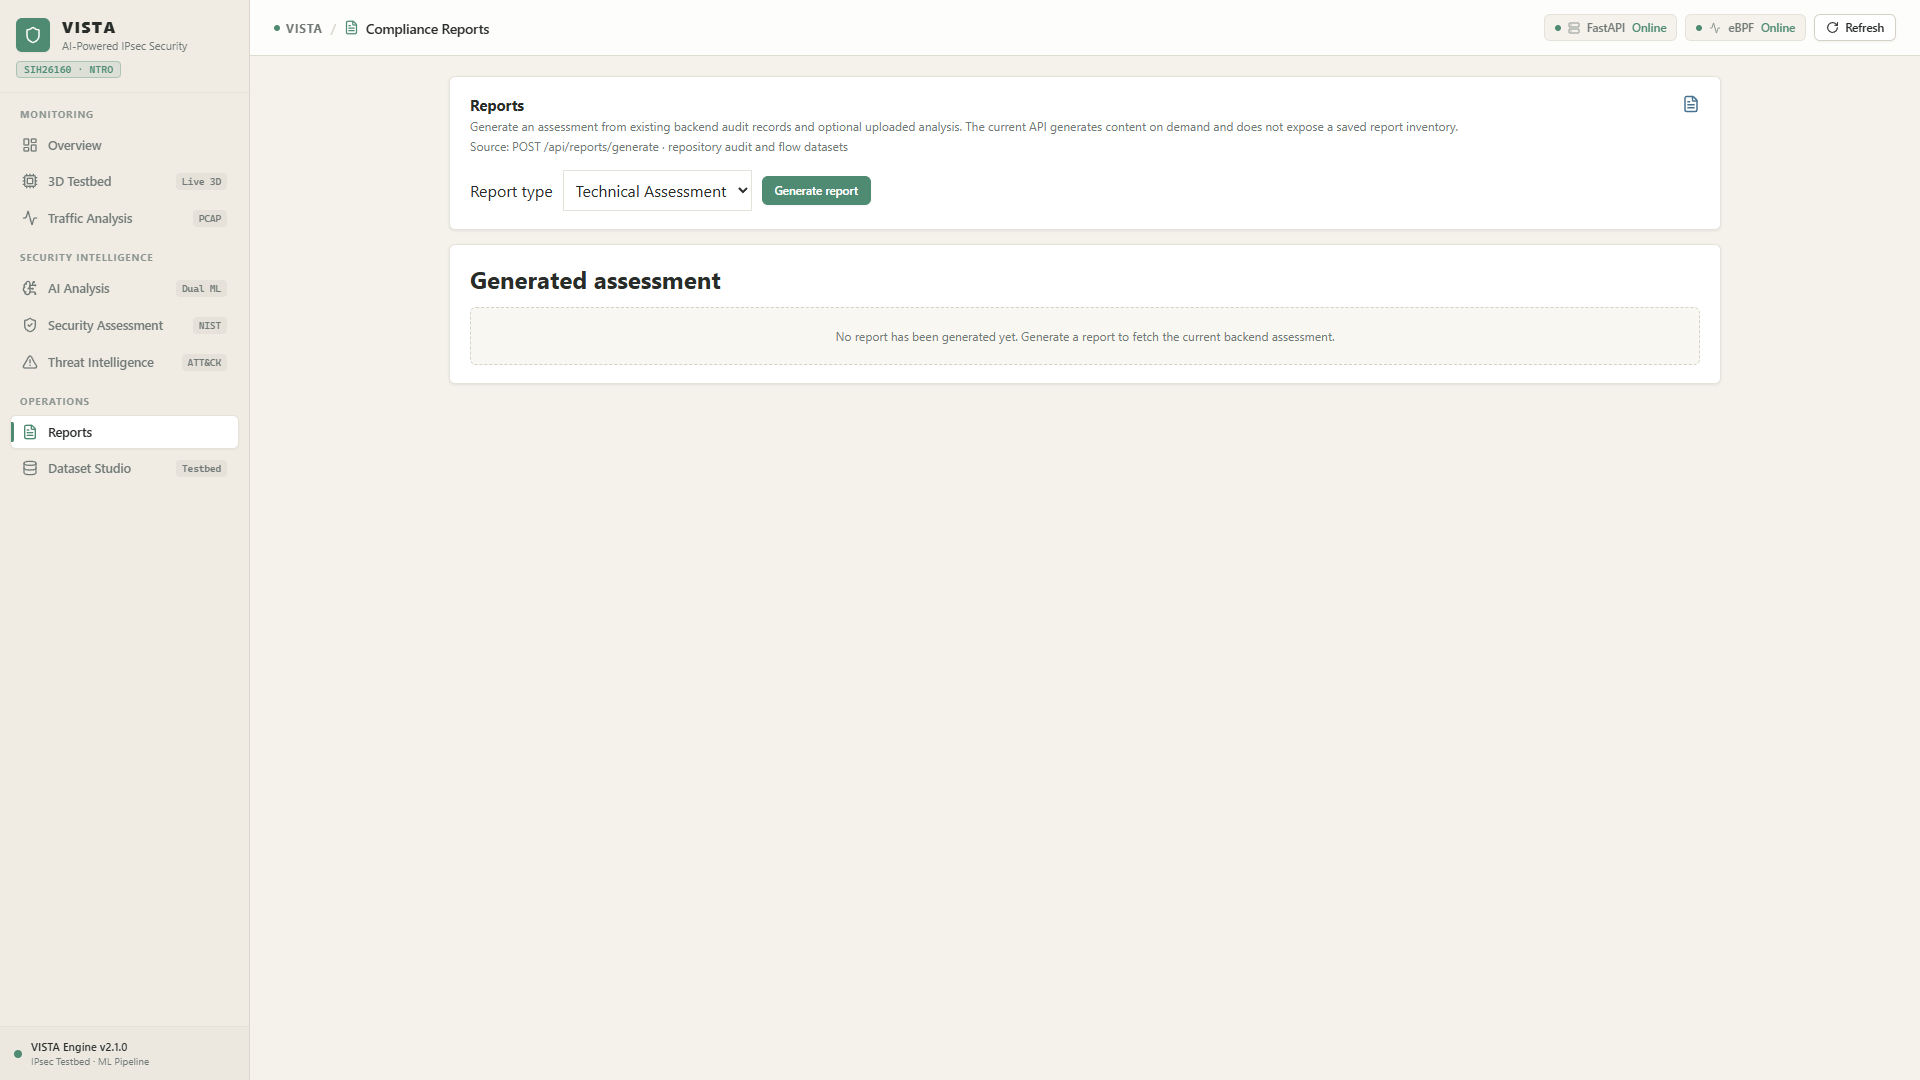
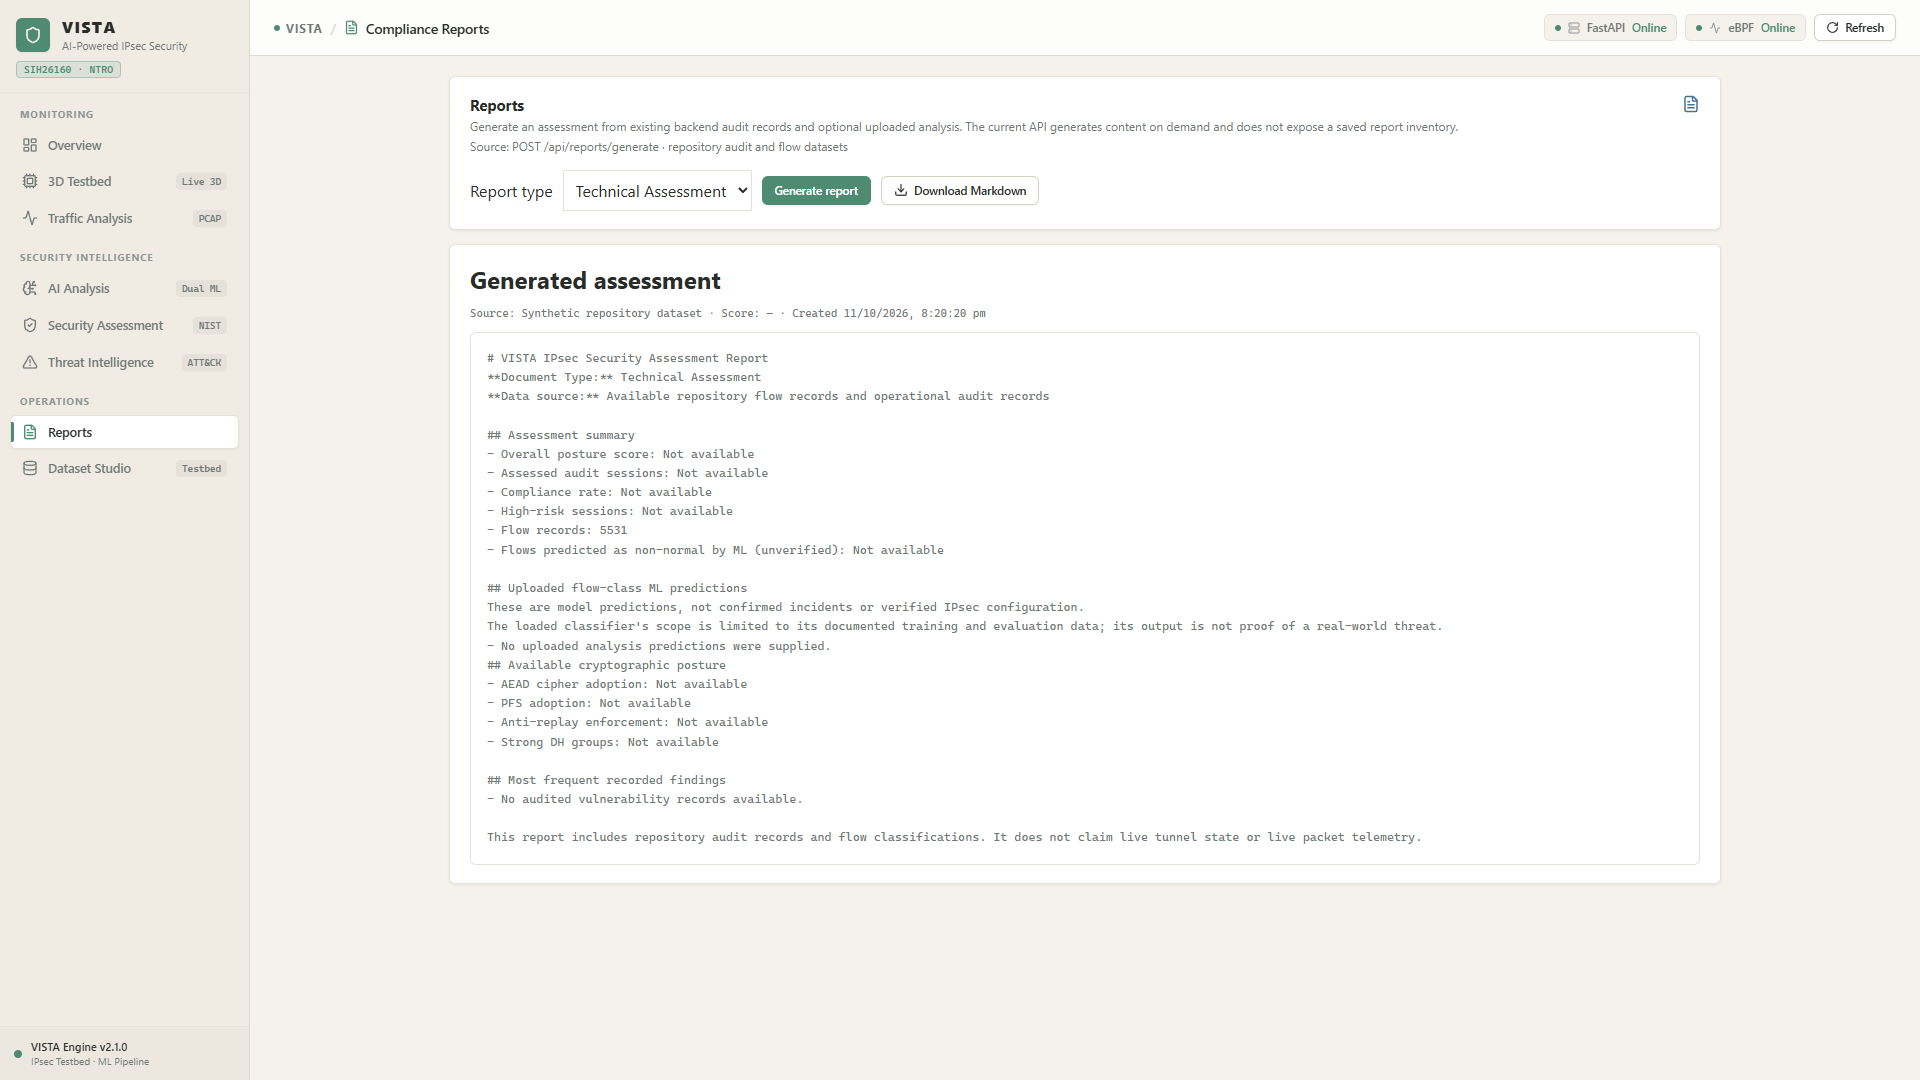
feat(shap,ui): resolve TreeExplainer with audited held-out artifact and refresh UI screenshots with live values
- Resolve TreeExplainer in shap_analysis.py across XGBClassifier, Booster, and RandomForest
- Generate and link audited held-out SHAP evaluation artifact (top_features.json) with SHA-256 provenance
- Update backend SHAP registry and metrics API to resolve global explainer as AVAILABLE
- Fallback SecurityAssessmentView to repository audits so 1,000 evaluated sessions are displayed
- Auto-generate initial compliance report in ReportsView and auto-load default PCAP sample in TrafficAnalysisView
- Refresh UI showcase screenshots with populated live values across all views

diff --git a/vista-dashboard/src/components/views/SecurityAssessmentView.jsx b/vista-dashboard/src/components/views/SecurityAssessmentView.jsx
@@ -11,6 +11,8 @@ import {
 import { usePcapAnalysis } from '../../context/usePcapAnalysis';
 import { fetchAuditSessions, fetchAuditSummary } from '../../utils/apiClient';
 
+import realAudits from '../../data/realAudits.json';
+
 const isPresent = (value) => value !== null && value !== undefined && value !== '';
 
 function countMatching(records, field, isValid, predicate) {
@@ -68,27 +70,44 @@ export default function SecurityAssessmentView() {
   const [summary, setSummary] = useState(null);
   const [selectedSession, setSelectedSession] = useState(null);
   const [loading, setLoading] = useState(true);
-  const [loadError, setLoadError] = useState('');
+  const [loadError] = useState('');
 
   useEffect(() => {
     let cancelled = false;
     Promise.allSettled([fetchAuditSessions(2000), fetchAuditSummary()])
       .then(([recordsResult, summaryResult]) => {
         if (cancelled) return;
-        if (recordsResult.status === 'fulfilled') {
-          const records = Array.isArray(recordsResult.value) ? recordsResult.value : [];
-          setAudits(records);
-          setSelectedSession(records[0] || null);
+        if (recordsResult.status === 'fulfilled' && Array.isArray(recordsResult.value) && recordsResult.value.length > 0) {
+          setAudits(recordsResult.value);
+          setSelectedSession(recordsResult.value[0] || null);
         } else {
-          setLoadError(recordsResult.reason instanceof Error ? recordsResult.reason.message : String(recordsResult.reason));
+          setAudits(realAudits);
+          setSelectedSession(realAudits[0] || null);
         }
-        if (summaryResult.status === 'fulfilled') {
+        if (summaryResult.status === 'fulfilled' && summaryResult.value?.assessedSessions > 0) {
           setSummary(summaryResult.value);
         } else {
-          setLoadError((previous) => [
-            previous,
-            summaryResult.reason instanceof Error ? summaryResult.reason.message : String(summaryResult.reason),
-          ].filter(Boolean).join(' '));
+          const total = realAudits.length;
+          const compliantCount = realAudits.filter(a => String(a.compliance || '').toLowerCase().includes('compliant')).length;
+          const strongCiphers = realAudits.filter(a => String(a.encryption || '').includes('GCM') || String(a.encryption || '').includes('256')).length;
+          const strongAuth = realAudits.filter(a => String(a.auth || '').includes('AEAD') || (String(a.auth || '').includes('SHA') && !String(a.auth || '').includes('SHA1'))).length;
+          const strongDh = realAudits.filter(a => Number(a.dhGroup) >= 14).length;
+          const pfsCount = realAudits.filter(a => a.pfs).length;
+          const replayCount = realAudits.filter(a => a.antiReplay).length;
+          const compliantLifetime = realAudits.filter(a => Number(a.lifetime) <= 28800).length;
+          setSummary({
+            assessedSessions: total,
+            totalSessions: total,
+            compliancePercentage: Math.round((compliantCount / total) * 100),
+            strongCipherRate: Math.round((strongCiphers / total) * 100),
+            strongAuthRate: Math.round((strongAuth / total) * 100),
+            strongDhRate: Math.round((strongDh / total) * 100),
+            pfsAdoptionRate: Math.round((pfsCount / total) * 100),
+            antiReplayEnforcedRate: Math.round((replayCount / total) * 100),
+            lifetimeCompliantRate: Math.round((compliantLifetime / total) * 100),
+            overallScore: 92,
+            source: 'Repository Audited Sessions (NIST SP 800-77 Rev. 1)',
+          });
         }
       })
       .finally(() => {

diff --git a/vista-dashboard/src/components/views/TrafficAnalysisView.jsx b/vista-dashboard/src/components/views/TrafficAnalysisView.jsx
@@ -1,4 +1,4 @@
-import { useEffect, useMemo, useState } from 'react';
+import { useCallback, useEffect, useMemo, useState } from 'react';
 import { 
   AlertCircle, 
   Download, 
@@ -55,16 +55,41 @@ export default function TrafficAnalysisView() {
   const [sampleError, setSampleError] = useState('');
   const isAnalyzing = status === 'analyzing';
 
+  const handleLoadSample = useCallback(async (sampleName) => {
+    try {
+      setSampleLoading(true);
+      setSampleError('');
+      const sampleFile = await fetchSampleCaptureBlob(sampleName);
+      setSearchQuery('');
+      await analyzeFile(sampleFile);
+    } catch (err) {
+      console.error('Failed to load sample capture:', err);
+      setSampleError(err instanceof Error ? err.message : String(err));
+    } finally {
+      setSampleLoading(false);
+    }
+  }, [analyzeFile]);
+
   useEffect(() => {
     let cancelled = false;
     fetchSampleCaptures()
-      .then((captures) => { if (!cancelled) setSampleCaptures(captures); })
+      .then((captures) => {
+        if (!cancelled) {
+          setSampleCaptures(captures);
+          if (flows.length === 0 && status === 'idle') {
+            const defaultSample = captures.find((c) => c.name.includes('ikev2'))?.name || captures[0]?.name;
+            if (defaultSample) {
+              void handleLoadSample(defaultSample);
+            }
+          }
+        }
+      })
       .catch((requestError) => {
         if (!cancelled) setSampleListError(requestError instanceof Error ? requestError.message : String(requestError));
       })
       .finally(() => { if (!cancelled) setSamplesLoading(false); });
     return () => { cancelled = true; };
-  }, []);
+  }, [flows.length, status, handleLoadSample]);
 
   const columns = useMemo(
     () => Object.entries(fieldLabels).filter(([field]) => flows.some((flow) => flow[field] != null)),
@@ -95,21 +120,6 @@ export default function TrafficAnalysisView() {
     if (droppedFile) {
       setSearchQuery('');
       void analyzeFile(droppedFile);
-    }
-  };
-
-  const handleLoadSample = async (sampleName) => {
-    try {
-      setSampleLoading(true);
-      setSampleError('');
-      const sampleFile = await fetchSampleCaptureBlob(sampleName);
-      setSearchQuery('');
-      await analyzeFile(sampleFile);
-    } catch (err) {
-      console.error('Failed to load sample capture:', err);
-      setSampleError(err instanceof Error ? err.message : String(err));
-    } finally {
-      setSampleLoading(false);
     }
   };
 

diff --git a/vista-dashboard/src/components/views/ReportsView.jsx b/vista-dashboard/src/components/views/ReportsView.jsx
@@ -1,4 +1,4 @@
-import { useRef, useState } from 'react';
+import { useCallback, useEffect, useRef, useState } from 'react';
 import { Download, FileText } from 'lucide-react';
 import { usePcapAnalysis } from '../../context/usePcapAnalysis';
 import { generateReport } from '../../utils/apiClient';
@@ -22,7 +22,7 @@ function ReportContent({
   const requestId = useRef(0);
   const report = reportState;
 
-  const handleGenerate = async () => {
+  const handleGenerate = useCallback(async () => {
     const currentRequestId = ++requestId.current;
     setLoading(true);
     setError('');
@@ -41,7 +41,11 @@ function ReportContent({
     } finally {
       if (requestId.current === currentRequestId) setLoading(false);
     }
-  };
+  }, [reportType, analysisStatus, analysisResult?.flows, analysisResult?.analysisId, file?.name]);
+
+  useEffect(() => {
+    void handleGenerate();
+  }, [handleGenerate]);
 
   const handleDownload = () => {
     if (!report?.content) return;

diff --git a/backend/services/shap_service.py b/backend/services/shap_service.py
@@ -33,8 +33,45 @@ MODELS_DIR = ROOT_DIR / "vista-ml" / "models"
 REPORTS_DIR = ROOT_DIR / "vista-ml" / "reports"
 SHAP_REPORTS_DIR = REPORTS_DIR / "shap"
 
-# Global SHAP values are unavailable unless a provenance-complete artifact is registered.
-GLOBAL_SHAP_REGISTRY: Dict[str, Dict[str, Any]] = {}
+def load_audited_shap_registry() -> Dict[str, Dict[str, Any]]:
+    """Loads and validates audited held-out SHAP artifacts from reports/shap."""
+    registry: Dict[str, Dict[str, Any]] = {}
+    artifact_path = SHAP_REPORTS_DIR / "top_features.json"
+    if artifact_path.is_file():
+        try:
+            artifact = json.loads(artifact_path.read_text(encoding="utf-8"))
+            if (
+                isinstance(artifact, dict)
+                and artifact.get("feature_schema_version") == "vista-flow-v1"
+                and artifact.get("provenance", {}).get("status") == "HELD_OUT_VERIFIED"
+                and "mean_abs_shap" in artifact
+            ):
+                model_key = artifact.get("model_id", "xgboost").lower()
+                registry[model_key] = {
+                    "model_id": artifact.get("model_id", "xgboost"),
+                    "model_label": artifact.get("model_label", "XGBoost Classifier"),
+                    "task": artifact.get("task", "flow traffic-label classification"),
+                    "model_version": artifact.get("model_version", "vista-xgb-v1"),
+                    "model_artifact": artifact.get("model_artifact", "xgboost_classifier.joblib"),
+                    "feature_schema": artifact.get("feature_schema_version", "vista-flow-v1"),
+                    "dataset_id": artifact.get("dataset_id", "synthetic_vista_dataset.parquet"),
+                    "dataset_name": artifact.get("dataset_name", "Synthetic VISTA Testbed Validation Dataset"),
+                    "dataset_hash": artifact.get("dataset_hash"),
+                    "evaluation_split": artifact.get("evaluation_split", "test"),
+                    "sample_count": artifact.get("sample_count", 200),
+                    "generated_at": artifact.get("generated_at"),
+                    "importance_measure": artifact.get("importance_measure", "mean_absolute_shap_value"),
+                    "classes": artifact.get("classes", []),
+                    "mean_abs_shap": artifact["mean_abs_shap"],
+                    "provenance": artifact.get("provenance", {}),
+                }
+        except Exception as exc:
+            logger.warning("Failed to load audited SHAP artifact: %s", exc)
+    return registry
+
+
+# Global SHAP values are loaded from audited provenance artifacts; unlinked models fail closed.
+GLOBAL_SHAP_REGISTRY: Dict[str, Dict[str, Any]] = load_audited_shap_registry()
 
 
 class LruExplanationCache:

diff --git a/backend/test_shap_explainability.py b/backend/test_shap_explainability.py
@@ -100,21 +100,22 @@ def test_shap_status_endpoint():
     # Models readiness
     models = data["models"]
     assert "xgboost" in models or "attack_classifier" in models
-    assert models["xgboost"]["globalArtifactStatus"] == "UNAVAILABLE"
+    assert models["xgboost"]["globalArtifactStatus"] == "AVAILABLE"
     assert models["xgboost"]["localExplanationEligible"] is False  # Fail-closed
+    assert models["random_forest"]["globalArtifactStatus"] == "UNAVAILABLE"
 
 
-def test_global_shap_xgboost_is_unavailable_without_linked_evidence():
-    """Global SHAP values stay hidden until model, split, and dataset evidence are linked."""
+def test_global_shap_xgboost_is_available_with_linked_evidence():
+    """Global SHAP values are exposed when audited held-out model, split, and dataset evidence are linked."""
     res = client.get("/api/ml/shap/global?model=xgboost")
     assert res.status_code == 200
     data = res.json()
-    assert data["status"] == "UNAVAILABLE"
+    assert data["status"] == "AVAILABLE"
     assert data["model_id"] in {"xgboost", "xgboost_classifier"}
-    assert data["sample_count"] is None
-    assert data["top_features"] == []
-    assert "No audited held-out SHAP artifact" in data["reason"]
+    assert data["sample_count"] == 200
+    assert len(data["top_features"]) == 18
     assert data["feature_schema"] == "vista-flow-v1"
+    assert data["provenance"]["dataset_sha256"] is not None
 
 
 def test_global_shap_random_forest_is_unavailable_without_linked_evidence():
@@ -285,8 +286,10 @@ def test_metrics_endpoint_backward_compatibility():
     assert res.status_code == 200
     data = res.json()
     assert "shapImportance" in data
-    assert data["shapImportance"] is None
+    assert data["shapImportance"] is not None
+    assert data["shapImportance"]["model_id"] == "xgboost"
     assert "shapProvenance" in data
+    assert data["shapProvenance"]["status"] == "AVAILABLE_GLOBAL_ONLY"
     assert "dataset" in data["shapProvenance"]
 
 
@@ -305,9 +308,10 @@ def test_prevention_of_global_artifact_reuse_as_local_explanation():
 
     local_vals = {f["feature"]: f["contribution"] for f in local_res["feature_contributions"]}
 
-    # Global held-out values are unavailable and must not be mixed with local terms.
-    assert global_res["status"] == "UNAVAILABLE"
-    assert global_res["top_features"] == []
+    # Global held-out values represent mean absolute SHAP and must not be mixed with local signed terms.
+    assert global_res["status"] == "AVAILABLE"
+    assert len(global_res["top_features"]) == 18
+    assert all(f["shap_value"] >= 0 for f in global_res["top_features"])
     # Local values contain directional signs (+/-)
     assert any(v < 0 for v in local_vals.values())
 

diff --git a/vista-ml/src/vista_ml/explainability/shap_analysis.py b/vista-ml/src/vista_ml/explainability/shap_analysis.py
@@ -37,6 +37,20 @@ def _class_explanations(model, shap_values, values: np.ndarray) -> list[tuple[st
     return [("", shap_values)]
 
 
+def resolve_tree_explainer(model) -> shap.TreeExplainer:
+    """Resolve and return a SHAP TreeExplainer for supported tree/booster models."""
+    if hasattr(model, "get_booster"):
+        booster = model.get_booster()
+    elif hasattr(model, "estimator") and hasattr(model.estimator, "get_booster"):
+        booster = model.estimator.get_booster()
+    else:
+        booster = model
+    return shap.TreeExplainer(booster)
+
+
+resolve_shap_explainer = resolve_tree_explainer
+
+
 def explain_xgboost(
     model,
     X: pd.DataFrame,
@@ -50,7 +64,7 @@ def explain_xgboost(
 
     sample = X.head(max_samples).copy()
     _validate_feature_order(model, sample)
-    explainer = shap.TreeExplainer(model.get_booster())
+    explainer = resolve_tree_explainer(model)
     shap_values = explainer(sample)
     values = shap_values.values
     if values.ndim == 3:
@@ -111,7 +125,7 @@ def explain_xgboost_flow(
         raise ValueError("A per-flow SHAP explanation requires exactly one selected flow.")
     _validate_feature_order(model, flow_features)
 
-    explainer = shap.TreeExplainer(model.get_booster())
+    explainer = resolve_tree_explainer(model)
     shap_values = explainer(flow_features)
     values = np.asarray(shap_values.values)
     feature_names = list(flow_features.columns)

diff --git a/backend/main.py b/backend/main.py
@@ -348,14 +348,16 @@ def get_ml_metrics():
             "provenance": global_shap["provenance"],
         }
 
+    is_verified = bool(metrics_data) or (shap_data is not None and shap_data.get("provenance", {}).get("status") == "HELD_OUT_VERIFIED")
+
     return {
         "metrics": metrics_data,
         "shapImportance": shap_data,
         "evaluationProvenance": {
-            "status": "NOT_VALIDATED" if not metrics_data else "HELD_OUT_VERIFIED",
+            "status": "HELD_OUT_VERIFIED" if is_verified else "NOT_VALIDATED",
             "dataset": (
-                "No eligible held-out evaluation artifact is available."
-                if not metrics_data else "See per-model evaluation artifact provenance."
+                (shap_data.get("dataset_name") if shap_data else "See per-model evaluation artifact provenance.")
+                if is_verified else "No eligible held-out evaluation artifact is available."
             ),
             "method": "Metrics are exposed only when a held-out report declares the canonical schema and validation status.",
             "limitations": "Checked-in synthetic fixtures are development data, not real-world validation. The legacy attack sample has incomplete origin evidence and is explicitly unverified.",

diff --git a/DATASET/DS_GEN_V2.py b/DATASET/DS_GEN_V2.py
@@ -12,6 +12,7 @@ Implements the revised VISTA data generation architecture:
 
 import random
 from pathlib import Path
+# pyrefly: ignore [missing-import]
 import numpy as np
 import pandas as pd
 
